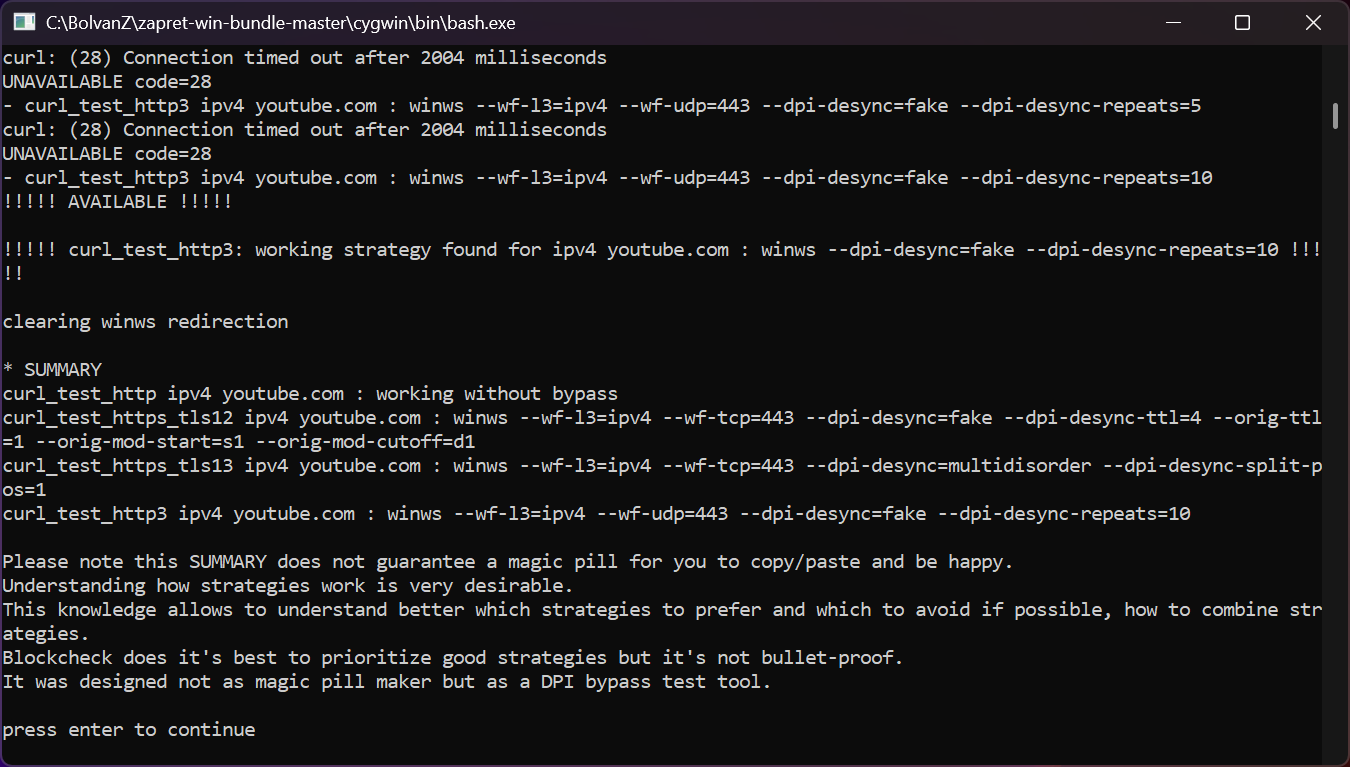
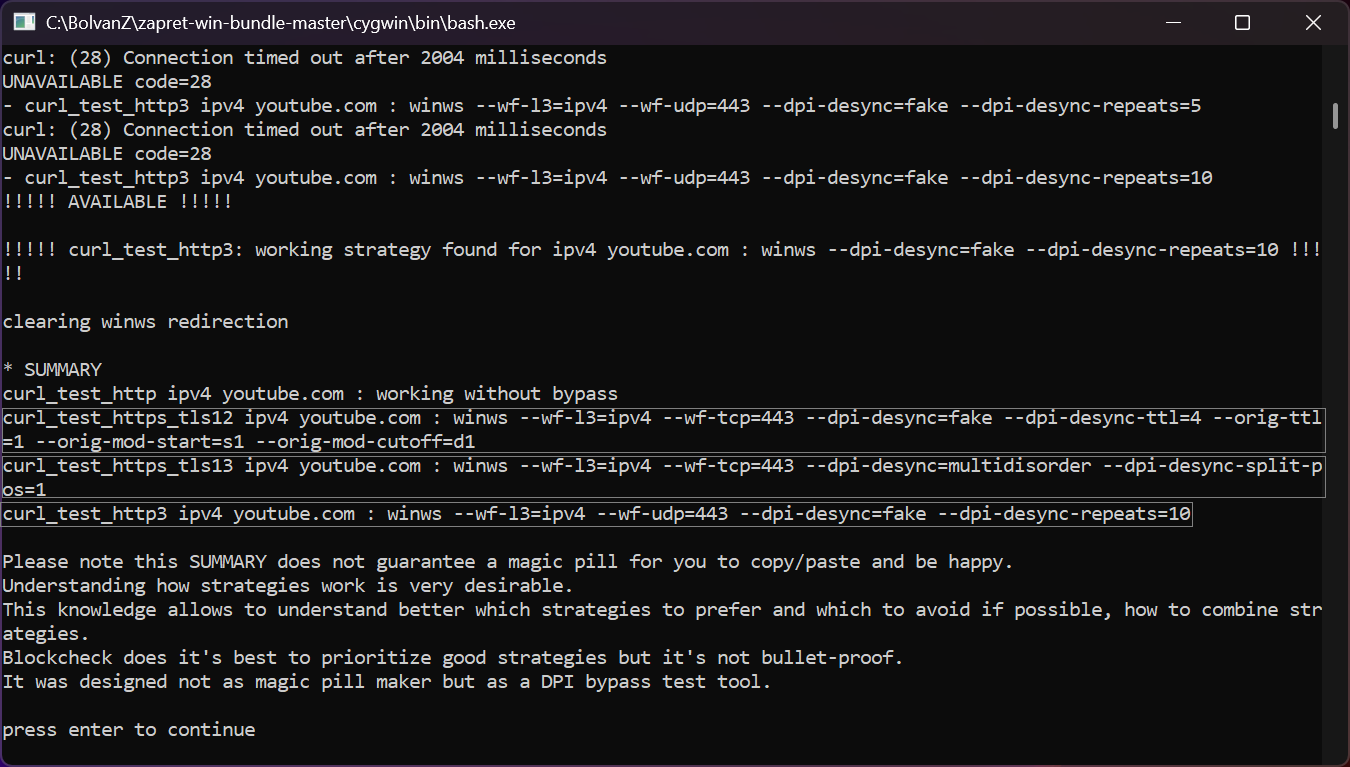
добавил статью про blockcheck для Windows

Changed region(s): [[0.0, 0.6297, 0.0311, 0.6597], [0.0, 0.5698, 0.0311, 0.5997]]

diff --git a/wiki/network/vpns/blockcheck.md b/wiki/network/vpns/blockcheck.md
@@ -1,32 +1,52 @@
 # blockcheck
 
----
-
 <img src="/img/logo/zapret.png" style="float: right" width="130px">
 
 **blockcheck** — скрипт-анализатор способов обхода [DPI](https://ru.wikipedia.org/wiki/Deep_packet_inspection). Используется для автоматизированного подбора стратегий для [zapret](/network/vpns/zapret) в текущей сети по заданным параметрам. Входит в состав оригинального [репозитория разработчика zapret](https://github.com/bol-van/zapret) и [пакета для совместимости с Windows](https://github.com/bol-van/zapret-win-bundle).
 
 ## Перед запуском
 
-Очень желательно перед запуском ознакомиться с [оригинальными инструкциями от разработчика](https://github.com/bol-van/zapret?tab=readme-ov-file#быстрый-старт) и установить [безопасный DNS-сервер](/network/secure-dns)! По умолчанию, провайдер имеет возможность перехватывать DNS-запросы и перенаправлять их на свои сервера. Именно из-за этого отображается страница, где написано "Доступ к информационному ресурсу ограничен". Поэтому сначала нужно не дать провайдеру перехватывать DNS-запросы, а уже потом настраивать zapret. [Инструкция по установке безопасного DNS-сервера](/network/secure-dns). Так же убедитесь перед запуском подбора, что у Вас отключены все средства обхода внутренних блокировок (VPN, zapret и пр.), иначе проверка будет бессмысленной.
+Очень желательно перед запуском ознакомиться с [оригинальными инструкциями от разработчика](https://github.com/bol-van/zapret?tab=readme-ov-file#быстрый-старт) и установить [безопасный DNS-сервер](/network/secure-dns)! По умолчанию, провайдер имеет возможность перехватывать DNS-запросы и перенаправлять их на свои сервера. Именно из-за этого отображается страница, где написано "Доступ к информационному ресурсу ограничен". Поэтому сначала нужно не дать провайдеру перехватывать DNS-запросы, а уже потом настраивать zapret. [Инструкция по установке безопасного DNS-сервера](/network/secure-dns).
+
+Также перед запуском подбора стратегий убедитесь, что у Вас отключены все средства обхода блокировок (VPN, zapret и пр.)!
 
 ## Windows
 
 1.  Скачайте [архив](https://github.com/bol-van/zapret-win-bundle/archive/refs/heads/master.zip) со всем необходимым для работы zapret на Windows.
-2.  Распакуйте в любую папку, например в `C:\zapret`.
-3.  Запустите `blockcheck.cmd` в папке `zapret-win-bundle-master\blockcheck`.  
-Далее идёт диалог для определения основных параметров подбора. Чтобы знать, как отвечать на эти вопросы, нужно чётко для себя сформулировать цель искомой стратегии. Если цель достаточно абстрактна, то с её уточнением может помочь ~~ChatGPT~~ [Gemini](https://aistudio.google.com). В своём промпте предложите ему ознакомиться с содержимым [этой ссылки](https://github.com/bol-van/zapret/blob/master/docs/readme.md#проверка-провайдера) и назовите сайт(ы) к которому(ым) хотите получить доступ.
-    ::: danger Будьте осторожны
-    Не запускайте режим force с проверкой tls1.2, это может занять множество часов
+2.  Распакуйте в любую папку, например в `C:\zapret-win-bundle`.
+3.  Запустите `blockcheck.cmd` в папке `zapret-win-bundle-master\blockcheck`.
+4.  Начнётся диалог для определения основных параметров подбора.
+    Краткий обзор параметров из диалога (в соответствующем порядке):
+    *  **domain(s)** — список тестируемых доменов через пробел  
+    Напишите домен заблокированного сайта, на котором хотите проверить работу zapret с различными параметрами. В ходе подбора удачными будут признаны стратегии сработавшие для получения доступа именно к этому ресурсу. Пример: `facebook.com`
+    *  **IPVS** — тестируемые версии ip протокола  
+    Ответьте `4` для проверки только IPv4, чего будет достаточно в большинстве случаев. Если Вы точно знаете, что проверяемый сайт использует IPv6 и готовы ждать завершения подбора до двух раз дольше, то можете проверить обе версии ответив `46`
+    *  **ENABLE_HTTP** — включить тест plain http  
+    Ответьте `N`, чтобы не тратить время на проверку незащищённого протокола, который сейчас почти не используется. В большинстве случаев соединение всё равно будет принудительно установлено с помощью https
+    *  **ENABLE_HTTPS_TLS12** — включить тест https TLS 1.2  
+    Ответьте `Y` для любых случаев кроме тех, когда целью является **исключительно** потоковый трафик в реальном времени (матчи в онлайн-играх, стриминг, звонки)
+    *  **ENABLE_HTTPS_TLS13** — включить тест https TLS 1.3  
+    Ответьте `N` если запускаете подбор для текущего домена впервые, а также если целью является **исключительно** трафик в реальном времени. Если рабочую стратегию в первый раз найти не удалось, попробуйте задать `Y` для этого параметра
+    *  **ENABLE_HTTP3** — включить тест QUIC  
+    Ответьте `Y`, что будет полезно для большинства крупных современных сайтов. Отвечать `N` рекомендуется только в случае если целью являются **исключительно** небольшие сайты, не поддерживающие QUIC (HTTP/3), вроде региональных новостных порталов или форумов.
+    *  **REPEATS** — количество попыток тестирования  
+    Напишите цифрой количество проверок, которые вы готовы ждать для каждой стратегии. Не все найденные стратегии могут работать стабильно, поэтому перепроверка может позволить их выявить. Значения больше `1` рекомендуется ставить только для сканирования уровня quick, иначе запаситесь терпением.
+    *  **PARALLEL** — включить параллельные попытки  
+    Появляется не всегда, а в зависимости от предыдущих настроек. Рекомендуется ответить `N`, т.к. несмотря на то, что параллельная проверка может значительно ускорить выполнение blockcheck, она также может спровоцировать защиту на сайте, что приведёт к неверному результату проверки
+    *  **SCANLEVEL** — уровень сканирования  
+    Выберите quick если запускаете подбор для текущего домена впервые. В этом режиме подбор будет продолжаться по каждому тесту до первой сработавшей стратегии и при успехе он обычно завершается в пределах пары минут. Если эти стратегии не помогли, попробуйте выбрать standard, который в обязательном порядке доводит до конца проверку всех основных методик для каждого теста, что обычно даёт целый набор стратегий для испытания, и завершается за несколько минут.
+    ::: warning Внимание
+    Не рекомендуется запуск режима force с проверкой tls1.2, это может занять очень много времени.
     :::
+    С пониманием параметров и ответами на вопросы также может помочь [ChatGPT](https://chatgpt.com) или [Gemini на AI Studio](https://aistudio.google.com). В своём промпте предложите нейросети ознакомиться с содержимым [этой ссылки](https://github.com/bol-van/zapret/blob/master/docs/readme.md#проверка-провайдера) и назовите сайты, к которым хотите получить доступ.
     <img src="/img/network/vpns/blockcheck/1.png" style="margin: 15px auto; display: block">
-4.  Сохраните полученный * SUMMARY с найденными стратегиями куда Вам удобно. Так же полная история проверки хранится в `blockcheck.log` рядом с одноимённым `.cmd` (до момента перезапуска подбора)
+4.  Сохраните полученный * SUMMARY с найденными стратегиями куда вам удобно. Также полная история проверки хранится в `blockcheck.log` рядом с одноимённым `.cmd` (до момента перезапуска подбора)
     <img src="/img/network/vpns/blockcheck/2.png" style="margin: 15px auto; display: block">
-5.  Создайте в папке `zapret-win-bundle-master\zapret-winws` список `.txt` из ip-адресов/подсетей, на которые хотите распространить обход. Также определитесь с портами. Если не знаете где искать список нужных ip и задействованных портов — спросите у [Gemini](https://aistudio.google.com)
+    В * SUMMARY выделены три строчки. Каждая - сработавшая для своего теста стратегия.
+5.  Создайте в папке `zapret-win-bundle-master\zapret-winws` список `.txt` из IP-адресов/подсетей и из портов, на которые будет распространяться действие zapret.
     <img src="/img/network/vpns/blockcheck/3.png" style="margin: 15px auto; display: block">
-6.  Возьмите за основу файл для запуска из любой сборки zapret (ПКМ - изменить в Блокноте) или шаблон ниже и замените стратегию на свою. Сохраните файл в той же папке где и список ip.
+6.  Возьмите за основу шаблон ниже и замените стратегию на свою. Отдавайте приоритет стратегиям для QUIC (HTTP/3) и коротким стратегиям (с меньшим числом параметров). Сохраните файл с расширением `.bat` в папке рядом со списком IP адресов.
     <img src="/img/network/vpns/blockcheck/4.png" style="margin: 15px auto; display: block">
-    ::: details Шаблон
     ```bat
     @echo off
     :: Переходим в папку, где лежит этот .bat файл, чтобы все пути были правильными
@@ -44,76 +64,4 @@
 
     exit
     ```
-    :::
 7.  Запустите получившийся файл и проверяйте работоспособность стратегии
-
-### Как использовать на Windows 7 x64 или Windows 11 ARM?
-
-Чтобы zapret работал на Windows 7, необходимо отключить проверку подписи драйверов. Для этого однократно запустите `win7/install_win7.cmd`. Батник заменит файлы windivert на совместимую с Windows 7 версию.  
-или  
-[Выполните команды в командной строке от имени администратора](/windows/run) и перезагрузите систему:
-
-```bat
-bcdedit.exe -set loadoptions DISABLE_INTEGRITY_CHECKS
-bcdedit.exe -set TESTSIGNING ON
-```
-
-После перезагрузки, сборки zapret должны работать корректно.
-::: info Замечание
-Для 32-битных систем Windows готового zapret, к сожалению, не существует.
-:::
-На Windows 11 arm64 выполните `arm64/install_arm64.cmd` от имени администратора и перезагрузите компьютер.
-
-## Другие системы
-
-Наиболее вероятно, что Вы будете запускать подбор с домашнего интернета. Успешно подобранная в таком случае стратегия скорее всего будет работать для любых систем в этой сети. То, как установить сам zapret, ищите в [инструкциях для соответствующих систем](/network/vpns/zapret#linux), а здесь будут вынесены только подсказки куда вставлять полученные параметры запуска.
-
-### Linux
-
-Для Linux также существует [официальный гайд](https://github.com/bol-van/zapret/blob/master/docs/quick_start.md#настройка) по использованию blockcheck
->Не работает какой-то сайт с устаревшими серверами? Попробуйте добавить его домен в `/opt/zapret/autohosts.txt`  
- Не работает неограниченный сайт? Добавьте его домен в `/opt/zapret/ignore.txt`  
- Конфиг можно изменить в `/opt/zapret/config.txt` (перезапустите zapret после изменения)  
- Для проверки текущего конфига вы можете использовать `/opt/zapret/check.sh`
-
-### Android (с root)
-
-::: info Если root отсутствует
-Судя по тому, что формат стратегий для ByeByeDPI отличается, то параметры, найденные с помощью blockcheck, **не** подойдут для этого приложения
-:::
-
->Список доменов сайтов с устаревшими серверами находится в `/data/adb/zapret/autohosts.txt`. Добавьте туда домен в случае, если нужный вам сайт не работает.  
- Если неограниченный сайт почему-то перестал открываться, добавьте его домен в `/data/adb/zapret/ignore.txt`.  
- Конфиг (стратегия) находится в `/data/adb/zapret/config.txt`.
-
-#### KsuWebUI
-
-[Модуль от IMMALWARE](https://github.com/ImMALWARE/zapret-magisk) имеет веб-интерфейс KsuWebUI.
->На вкладке **Домены** можно добавлять/удалять домены, редактируя autohosts и ignore.  
- На вкладке **Конфиг** можно отредактировать конфиг.  
- На вкладке **Проверка** скрипт проверит соединение ко всем доменам из `autohosts.txt` с текущей стратегией.
-
-### Переменные в config.txt
-
-*   `{hosts}` — подставит путь к autohosts.txt
-*   `{ignore}` — подставит путь к ignore.txt
-*   `{youtube}` — подставить путь к youtube.txt
-*   `{quicgoogle}` — подставит путь к system\\quic\_initial\_www\_google\_com.bin
-*   `{tlsgoogle}` — подставит путь к system\\tls\_clienthello\_www\_google\_com.bin
-
-## Windows Defender видит вирусы?
-
-В архивах выше нет вирусов! Совсем нет!
-
-[winws.exe на VirusTotal](https://www.virustotal.com/gui/file/bebdf50de893b365454846c3247e2e978cbab6071253a88487845ceee38ee870) не детектится совсем. Детектится только [WinDivert64.sys](https://www.virustotal.com/gui/file/8da085332782708d8767bcace5327a6ec7283c17cfb85e40b03cd2323a90ddc2).
-
-**WinDivert** — драйвер с [открытым исходным кодом](https://github.com/basil00/WinDivert) для перехвата, изменения и перенаправления сетевых пакетов в Windows. Он позволяет программам получать доступ к сетевому трафику на низком уровне, перехватывать его до того, как он попадёт в приложение или сеть, изменять содержимое и отправлять обратно. Именно с помощью него zapret работает, WinDivert детектится ложно.
-
-### Отключение Windows Defender
-
-1.  Откройте трей -> нажмите по значку Windows Defender.
-    <img src="/img/network/vpns/zapret/1.jpeg" style="margin: 15px auto; display: block" width="150">
-2.  Защита от вирусов и угроз (слева) -> Управление настройками.
-    <img src="/img/network/vpns/zapret/2.png" style="margin: 15px auto; display: block">
-3.  Отключите "Защиту в режиме реального времени". Она отключается не навсегда, а на некоторое время. Windows Defender не детектит ничего в zapret в распакованном виде.
-    <img src="/img/network/vpns/zapret/3.png" style="margin: 15px auto; display: block">
